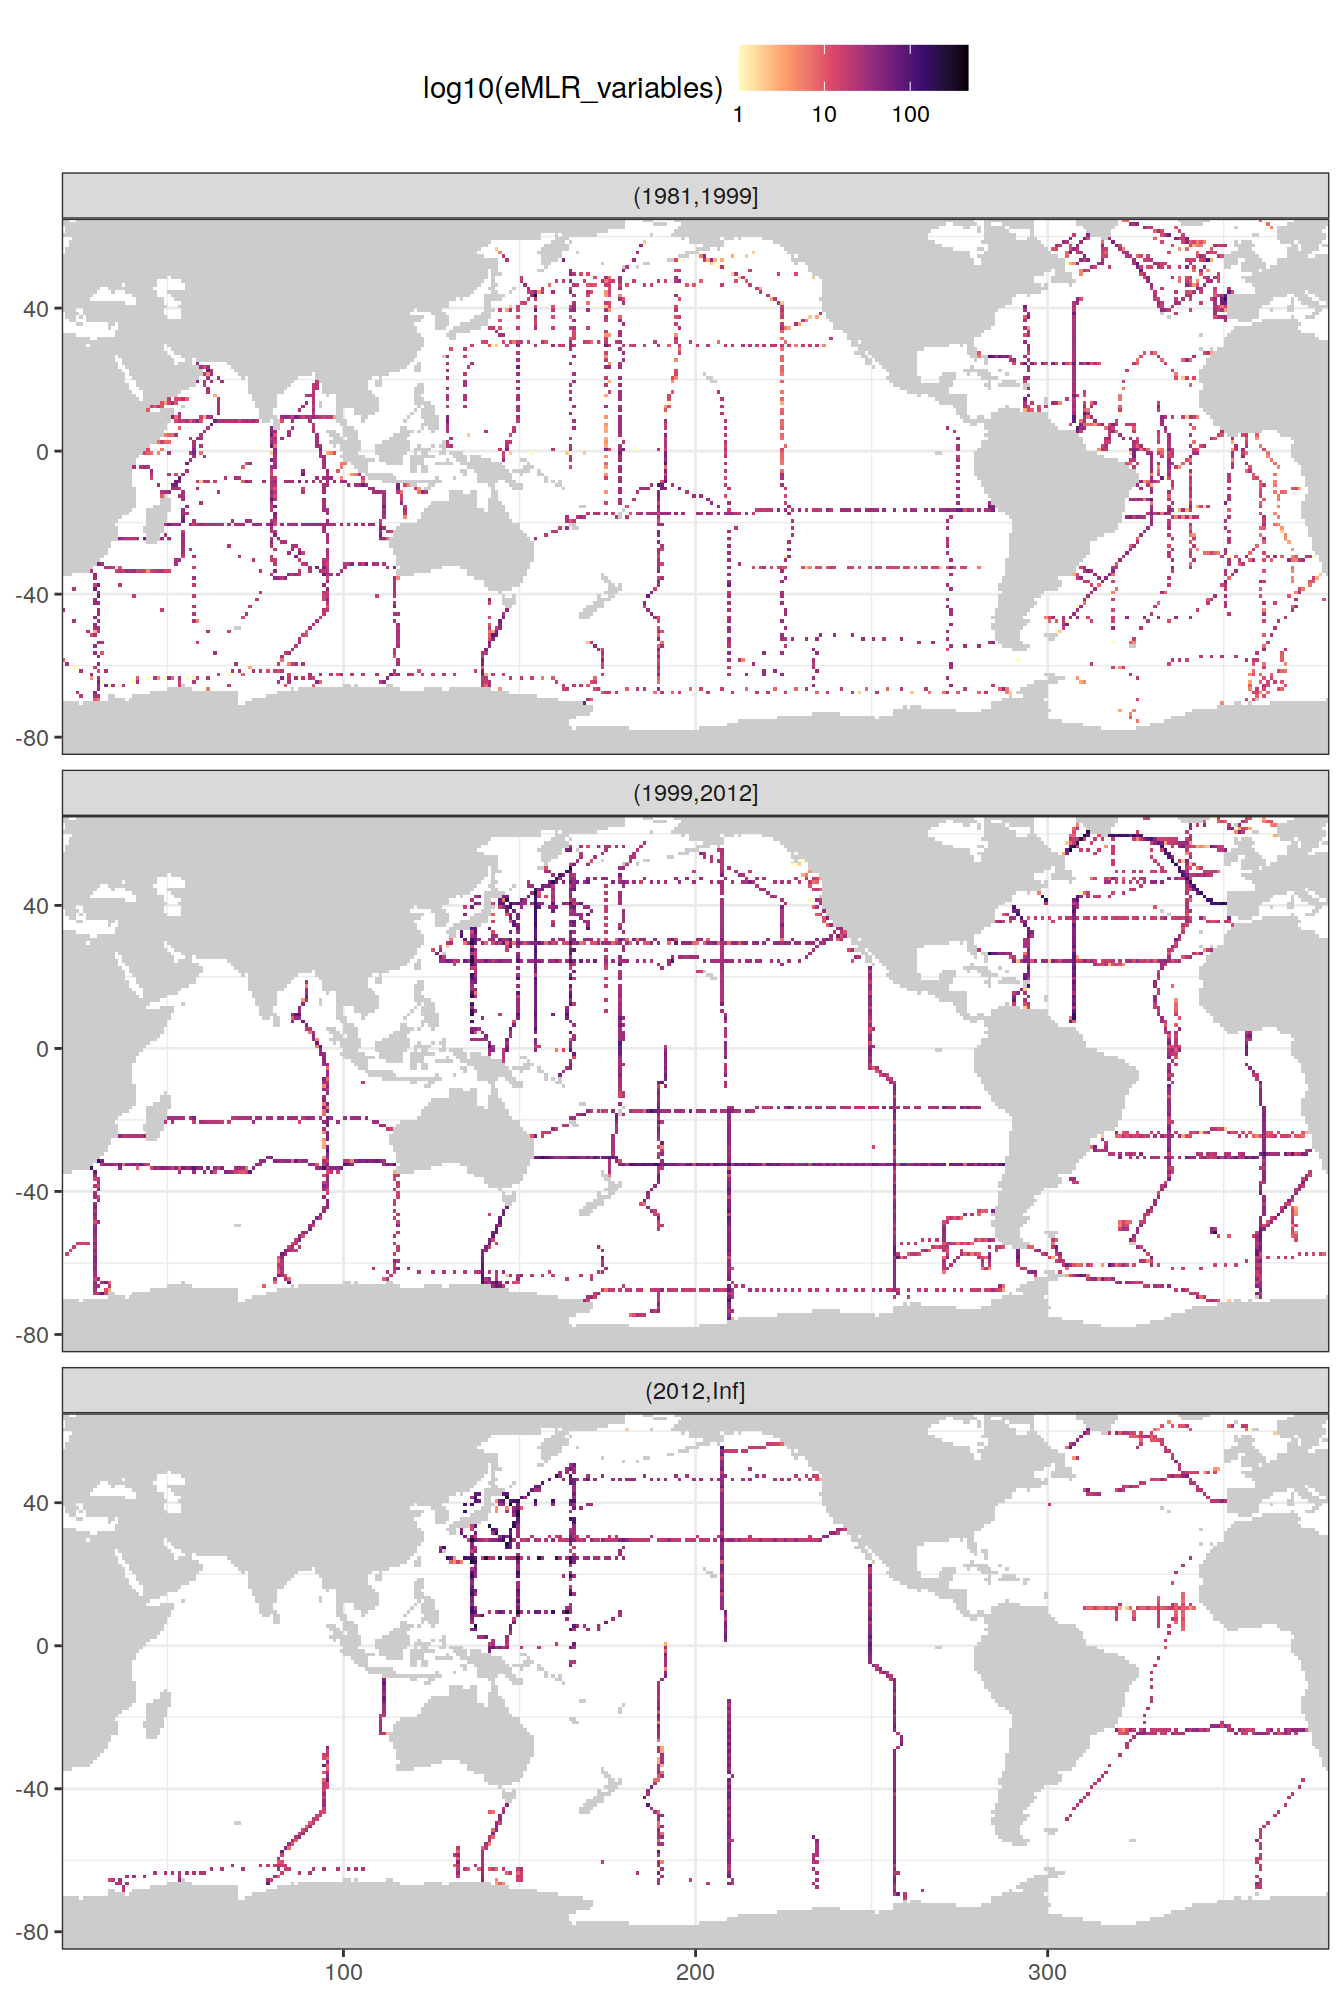
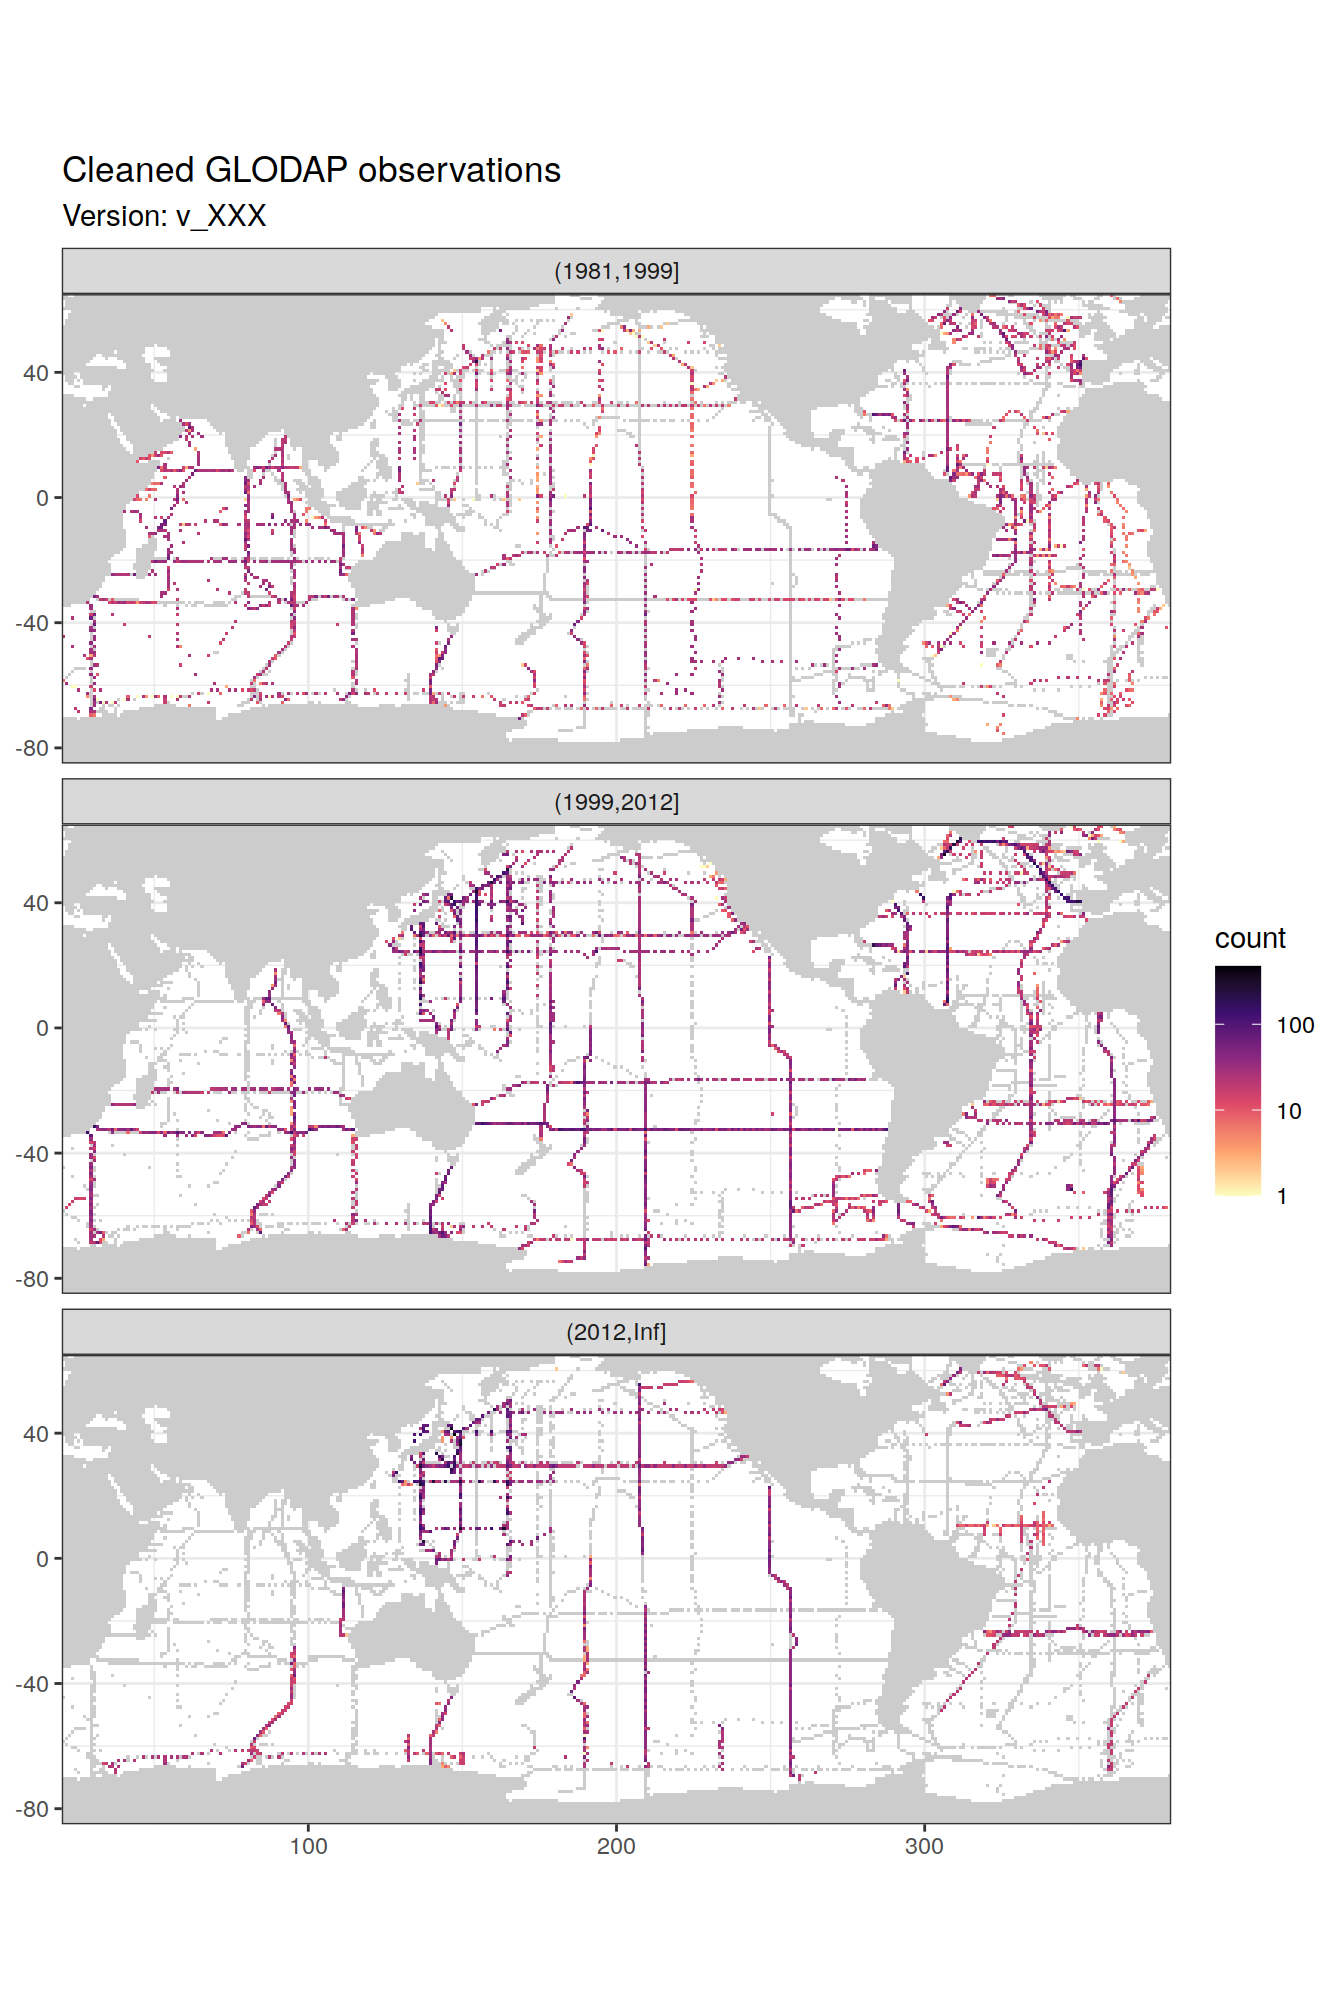
Build site.

diff --git a/docs/eMLR_GLODAPv2_2020_subsetting.html b/docs/eMLR_GLODAPv2_2020_subsetting.html
@@ -602,16 +602,16 @@ This reproducible <a href="http://rmarkdown.rstudio.com">R Markdown</a> analysis
 <div class="panel panel-default">
 <div class="panel-heading">
 <p class="panel-title">
-<a data-toggle="collapse" data-parent="#workflowr-checks" href="#strongRepositoryversionstrongahrefhttpsgithubcomjensdanielmuelleremlrobsvXXXtree8f3d29db63719e959f4728e9447719bd84f0de85targetblank8f3d29da"> <span class="glyphicon glyphicon-ok text-success" aria-hidden="true"></span> <strong>Repository version:</strong> <a href="https://github.com/jens-daniel-mueller/emlr_obs_v_XXX/tree/8f3d29db63719e959f4728e9447719bd84f0de85" target="_blank">8f3d29d</a> </a>
+<a data-toggle="collapse" data-parent="#workflowr-checks" href="#strongRepositoryversionstrongahrefhttpsgithubcomjensdanielmuelleremlrobsvXXXtreef4520b2112129b7173f050f6b6e44cbfcc509214targetblankf4520b2a"> <span class="glyphicon glyphicon-ok text-success" aria-hidden="true"></span> <strong>Repository version:</strong> <a href="https://github.com/jens-daniel-mueller/emlr_obs_v_XXX/tree/f4520b2112129b7173f050f6b6e44cbfcc509214" target="_blank">f4520b2</a> </a>
 </p>
 </div>
[2 lines of base64/hex data omitted]
 <div class="panel-body">
 <p>
 Great! You are using Git for version control. Tracking code development and connecting the code version to the results is critical for reproducibility.
 </p>
 <p>
-The results in this page were generated with repository version <a href="https://github.com/jens-daniel-mueller/emlr_obs_v_XXX/tree/8f3d29db63719e959f4728e9447719bd84f0de85" target="_blank">8f3d29d</a>. See the <em>Past versions</em> tab to see a history of the changes made to the R Markdown and HTML files.
+The results in this page were generated with repository version <a href="https://github.com/jens-daniel-mueller/emlr_obs_v_XXX/tree/f4520b2112129b7173f050f6b6e44cbfcc509214" target="_blank">f4520b2</a>. See the <em>Past versions</em> tab to see a history of the changes made to the R Markdown and HTML files.
 </p>
 <p>
 Note that you need to be careful to ensure that all relevant files for the analysis have been committed to Git prior to generating the results (you can use <code>wflow_publish</code> or <code>wflow_git_commit</code>). workflowr only checks the R Markdown file, but you know if there are other scripts or data files that it depends on. Below is the status of the Git repository when the results were generated:
@@ -663,6 +663,40 @@ Message
 </tr>
 </thead>
 <tbody>
+<tr>
+<td>
+Rmd
+</td>
+<td>
+<a href="https://github.com/jens-daniel-mueller/emlr_obs_v_XXX/blob/f4520b2112129b7173f050f6b6e44cbfcc509214/analysis/eMLR_GLODAPv2_2020_subsetting.Rmd" target="_blank">f4520b2</a>
+</td>
+<td>
+jens-daniel-mueller
+</td>
+<td>
+2020-12-02
+</td>
+<td>
+code cleaning and commenting
+</td>
+</tr>
+<tr>
+<td>
+html
+</td>
+<td>
+<a href="https://rawcdn.githack.com/jens-daniel-mueller/emlr_obs_v_XXX/632c84fa67ab706b0a8d5324879615f47bfd5c08/docs/eMLR_GLODAPv2_2020_subsetting.html" target="_blank">632c84f</a>
+</td>
+<td>
+jens-daniel-mueller
+</td>
+<td>
+2020-12-02
+</td>
+<td>
+Build site.
+</td>
+</tr>
 <tr>
 <td>
 Rmd
@@ -2121,6 +2155,7 @@ jens-daniel-mueller
 <h2><span class="header-section-number">4.6</span> Coverage maps by era</h2>
 <div id="subsetting-process" class="section level3">
 <h3><span class="header-section-number">4.6.1</span> Subsetting process</h3>
+<p>The following plots show the remaining data after several cleaning steps, separately for each era.</p>
 <pre class="r"><code>GLODAP_obs_grid &lt;- GLODAP_obs_grid %&gt;%
   mutate(cleaning_level = factor(
            cleaning_level,
@@ -2128,77 +2163,6 @@ jens-daniel-mueller
          ))
 
 map +
-  geom_raster(data = GLODAP_obs_grid %&gt;%
-                filter(cleaning_level == &quot;tco2_values&quot;) %&gt;%
-                select(-cleaning_level),
-              aes(lon, lat, fill = &quot;tco2_values&quot;)) +
-  geom_raster(data = GLODAP_obs_grid %&gt;%
-                filter(cleaning_level != &quot;tco2_values&quot;),
-              aes(lon, lat, fill = &quot;subset&quot;)) +
-  scale_fill_brewer(palette = &quot;Set1&quot;, name = &quot;&quot;) +
-  theme(legend.position = &quot;top&quot;,
-        axis.title = element_blank())</code></pre>
-<p><img src="figure/eMLR_GLODAPv2_2020_subsetting.Rmd/coverage_maps_era_subsetting-1.png" width="672" style="display: block; margin: auto;" /></p>
-<p>
-<button type="button" class="btn btn-default btn-xs btn-workflowr btn-workflowr-fig" data-toggle="collapse" data-target="#fig-coverage_maps_era_subsetting-1">
-Past versions of coverage_maps_era_subsetting-1.png
-</button>
-</p>
-<div id="fig-coverage_maps_era_subsetting-1" class="collapse">
-<div class="table-responsive">
-<table class="table table-condensed table-hover">
-<thead>
-<tr>
-<th>
-Version
-</th>
-<th>
-Author
-</th>
-<th>
-Date
-</th>
-</tr>
-</thead>
-<tbody>
-<tr>
-<td>
-<a href="https://github.com/jens-daniel-mueller/emlr_obs_v_XXX/blob/0ff728bcd8b7b68083182314bccbc6234277b9c4/docs/figure/eMLR_GLODAPv2_2020_subsetting.Rmd/coverage_maps_era_subsetting-1.png" target="_blank">0ff728b</a>
-</td>
-<td>
-jens-daniel-mueller
-</td>
-<td>
-2020-12-01
-</td>
-</tr>
-<tr>
-<td>
-<a href="https://github.com/jens-daniel-mueller/emlr_obs_v_XXX/blob/b02b7a468a8785aceae53e2c535d32c444b0242d/docs/figure/eMLR_GLODAPv2_2020_subsetting.Rmd/coverage_maps_era_subsetting-1.png" target="_blank">b02b7a4</a>
-</td>
-<td>
-jens-daniel-mueller
-</td>
-<td>
-2020-12-01
-</td>
-</tr>
-<tr>
-<td>
-<a href="https://github.com/jens-daniel-mueller/emlr_obs_v_XXX/blob/196be51afab642ee2db1c3282ce6c51c44b502c3/docs/figure/eMLR_GLODAPv2_2020_subsetting.Rmd/coverage_maps_era_subsetting-1.png" target="_blank">196be51</a>
-</td>
-<td>
-jens-daniel-mueller
-</td>
-<td>
-2020-11-30
-</td>
-</tr>
-</tbody>
-</table>
-</div>
-</div>
-<pre class="r"><code>map +
   geom_raster(data = GLODAP_obs_grid %&gt;%
                 filter(cleaning_level == &quot;tco2_values&quot;) %&gt;%
                 select(-cleaning_level),
@@ -2271,22 +2235,22 @@ jens-daniel-mueller
 </div>
 </div>
 </div>
-<div id="emlr-variables-1" class="section level3">
-<h3><span class="header-section-number">4.6.2</span> eMLR variables</h3>
-<p>Grey pixels refer to sampling locations filtered for availability of tco2 data only.</p>
+<div id="final-input-data" class="section level3">
+<h3><span class="header-section-number">4.6.2</span> Final input data</h3>
+<p>The following plots show the remaining data density in each grid cell after all cleaning steps, separately for each era.</p>
 <pre class="r"><code>GLODAP_tco2_grid &lt;- GLODAP %&gt;%
-  count(lat, lon, era)
+  count(lat, lon)
 
 map +
   geom_raster(data = GLODAP_tco2_grid, aes(lon, lat), fill = &quot;grey80&quot;) +
   geom_bin2d(data = GLODAP,
              aes(lon, lat),
              binwidth = c(1,1)) +
-  scale_fill_viridis_c(option = &quot;magma&quot;, direction = -1, trans = &quot;log10&quot;,
-                       name = &quot;log10(eMLR_variables)&quot;) +
+  scale_fill_viridis_c(option = &quot;magma&quot;, direction = -1, trans = &quot;log10&quot;) +
   facet_wrap(~era, ncol = 1) +
-  theme(legend.position = &quot;top&quot;,
-        axis.title = element_blank())</code></pre>
+  labs(title = &quot;Cleaned GLODAP observations&quot;,
+       subtitle = paste(&quot;Version:&quot;, params_local$Version_ID)) +
+  theme(axis.title = element_blank())</code></pre>
 <p><img src="figure/eMLR_GLODAPv2_2020_subsetting.Rmd/coverage_maps_era_clean-1.png" width="672" style="display: block; margin: auto;" /></p>
 <p>
 <button type="button" class="btn btn-default btn-xs btn-workflowr btn-workflowr-fig" data-toggle="collapse" data-target="#fig-coverage_maps_era_clean-1">
